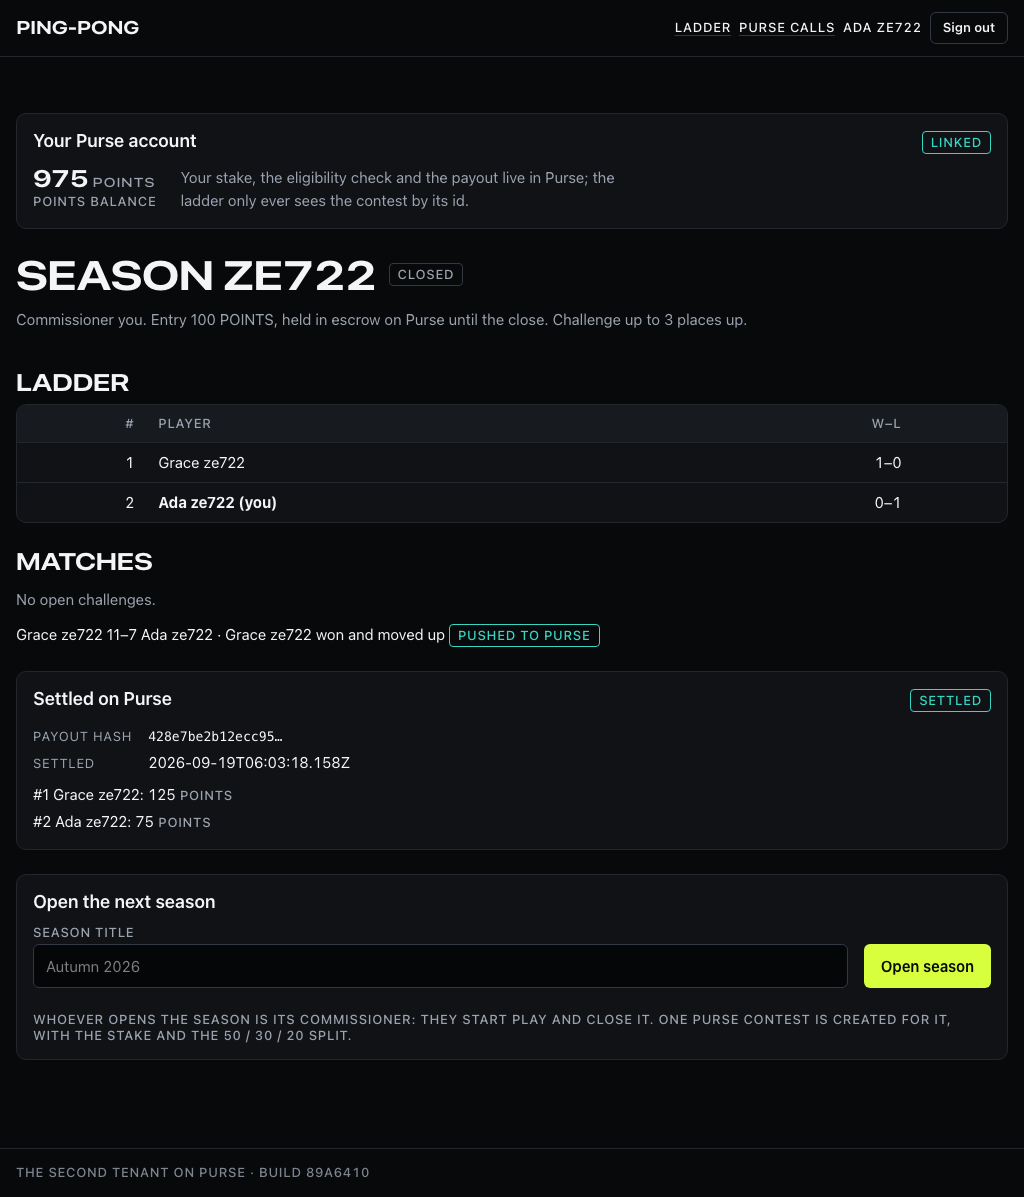
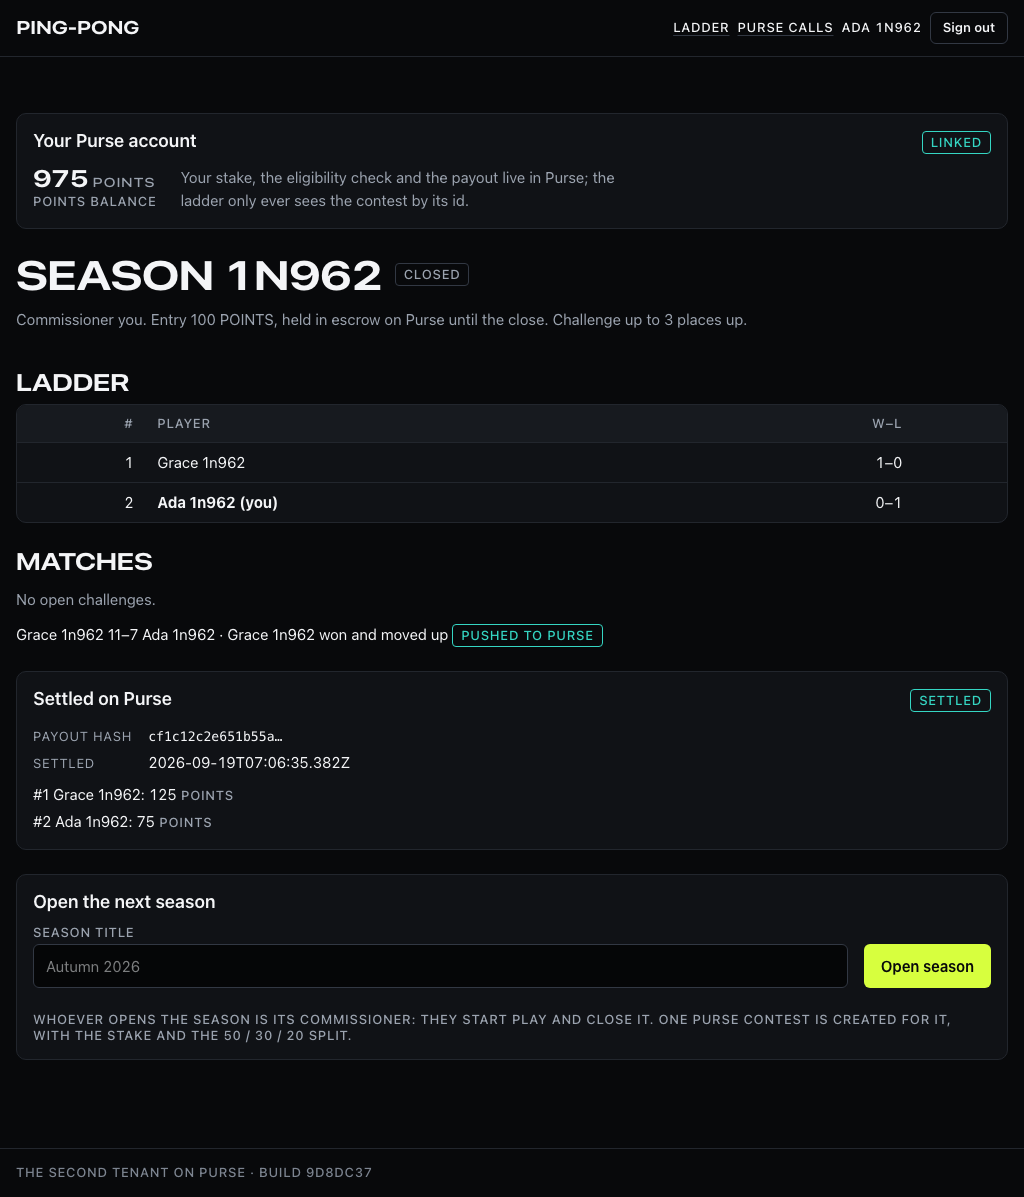
docs(second-tenant): record the pingpong deploy at 9d8dc37 and its live URL (#18)
The second tenant is live at https://pingpong-production-bc24.up.railway.app as the
`pingpong` Railway service, deployed 2026-09-19 at commit 9d8dc37 after the five existing
services were redeployed at the same commit (so the purse and demo-reset images carry the
second tenant's seed before the nightly reset). `docs/second-tenant.md` ("Deployed") has the
steps, the variables and what the smoke verified on the live origin; `docs/deploy.md` lists
the fourth service, its URL and includes it in the redeploy loop; `docs/decisions.md`
closes the deploy decision.

Two small operational notes from the deploy: the documented `db:setup` recipe now passes
the admin URL through `DATABASE_ADMIN_URL` (pnpm echoes a script's arguments, so a URL on
the command line reaches the terminal), and the smoke takes its screenshot after the
wallets are re-read so the balance on it is the settled one. The screenshot is from the
run against the live origin.

diff --git a/apps/pingpong/e2e/smoke.spec.ts b/apps/pingpong/e2e/smoke.spec.ts
@@ -124,12 +124,13 @@ test('two players, one confirmed result, the ladder reorders, the season closes 
   await expect(settlement.getByTestId('result-row')).toHaveCount(2);
   await expect(settlement.getByTestId('result-row').first()).toContainText('125');
   await expect(settlement.getByTestId('result-row').last()).toContainText('75');
-  await ada.evaluate(() => window.scrollTo(0, 0));
-  await ada.screenshot({ path: path.join(SCREENSHOT_DIR, 'pingpong-settled.png'), fullPage: true });
 
   // ---- The payouts landed: 1000 welcome, 100 staked, 125 back to the winner, 75 to the loser.
   expect(await pointsOf(grace)).toBe('1025');
   expect(await pointsOf(ada)).toBe('975');
+  // The screenshot after the re-read, so the balance on it is the settled one.
+  await ada.evaluate(() => window.scrollTo(0, 0));
+  await ada.screenshot({ path: path.join(SCREENSHOT_DIR, 'pingpong-settled.png'), fullPage: true });
 
   // ---- The audit holds the calls, and Purse's ledger still reconciles.
   await ada.goto('/audit');

diff --git a/docs/deploy.md b/docs/deploy.md
@@ -11,6 +11,7 @@ where this deploy departs from its defaults.
 | `purse` | `apps/purse/Dockerfile` | the Purse API, the contest engine, the ledger, the webhook dispatcher, and the embed app under `/embed` | `GET /health`: sha, migration state, active ruleset version, SDK version, last reconcile result; 503 while the last reconcile failed |
 | `purse-console` | `apps/purse-console/Dockerfile` | the operator console, talking to the API's `/console/*` server-to-server | `GET /health`: sha, and whether the API answers |
 | `sideout` | `apps/sideout/Dockerfile` | the Sideout web app | `GET /health`: sha, migration state, SDK version, and what Purse's `/health` says |
+| `pingpong` | `apps/pingpong/Dockerfile` | the second tenant, the office ping-pong ladder (`docs/second-tenant.md`) | `GET /health`: the same shape as Sideout's |
 
 Every image is multi-stage (build, a clean production install, runtime), runs as the
 unprivileged `node` user, carries a Docker `HEALTHCHECK` on its `/health`, and is built
@@ -94,6 +95,7 @@ phase 9):
 | Sideout | https://sideout-production-5898.up.railway.app |
 | Purse API and embed | https://purse-production-b87b.up.railway.app (`/health`, `/embed/`, `/responsible-play`, `/support`, `/v1/*`) |
 | Purse operator console | https://purse-console-production.up.railway.app (sign in as `admin@purse.local`; the seeded password is kept as the `purse-console` service's `PURSE_CONSOLE_ADMIN_PASSWORD` variable, read by no process, for the dashboard's eyes only; `pnpm --filter @purse/api db:seed -- --print-operator-password --rotate-operator-password` through the proxy sets a new one) |
+| Ping-pong (the second tenant) | https://pingpong-production-bc24.up.railway.app (sign in with any name and the office code, the `pingpong` service's `OFFICE_CODE` variable; `docs/second-tenant.md`) |
 
 Plus `Postgres` (Railway's `postgres-ssl` image, one 50 GB volume, the two logical databases
 above, reached by the services at `postgres.railway.internal:5432` and from a workstation
@@ -123,8 +125,9 @@ railway init --name sideout-purse --workspace <workspace-id> --json     # projec
 railway add --database postgres --json
 railway tcp-proxy create --port 5432 --service Postgres                 # a public port for db:setup and the seed
 railway variable list --service Postgres --json                          # PGUSER, PGPASSWORD, PGDATABASE, RAILWAY_PRIVATE_DOMAIN
-pnpm db:setup --admin-url 'postgresql://postgres:<pw>@<proxy host>:<proxy port>/railway?sslmode=require' \
-  --no-write-env --no-test-databases \
+# The admin URL through the environment, not the command line: pnpm echoes a script's arguments.
+DATABASE_ADMIN_URL='postgresql://postgres:<pw>@<proxy host>:<proxy port>/railway?sslmode=require' \
+  pnpm db:setup --no-write-env --no-test-databases \
   --purse-password ... --purse-migrator-password ... --sideout-password ...
 for s in purse purse-console sideout purse-reconcile demo-reset; do railway add --service $s --json; done
 railway domain --service purse --port 4000; railway domain --service purse-console --port 4200; railway domain --service sideout --port 3000
@@ -148,8 +151,8 @@ linked):
 
 ```sh
 SHA=$(git rev-parse HEAD)
-for s in purse purse-console sideout purse-reconcile demo-reset; do railway variable set "BUILD_SHA=$SHA" --service $s --skip-deploys; done
-for s in purse purse-console sideout purse-reconcile demo-reset; do railway up --service $s --detach; done
+for s in purse purse-console sideout purse-reconcile demo-reset pingpong; do railway variable set "BUILD_SHA=$SHA" --service $s --skip-deploys; done
+for s in purse purse-console sideout purse-reconcile demo-reset pingpong; do railway up --service $s --detach; done
 ```
 
 Then check each `/health` reports `sha` equal to the commit and `migrations.pending` 0
@@ -261,7 +264,12 @@ demo reset first). Last run against the deployment: both flows passed at the com
 
 The second tenant (`apps/pingpong`, stretch item 4) has its own image, entrypoint, health
 check and variables, following the pattern above; `docs/second-tenant.md` lists them and
-the `PURSE_PINGPONG_ORIGINS` variable the `purse` service needs for it.
+the `PURSE_PINGPONG_ORIGINS` variable the `purse` service needs for it. Deployed
+2026-09-19 at commit `9d8dc37` as the `pingpong` service
+(https://pingpong-production-bc24.up.railway.app), with the five existing services
+redeployed at the same commit first so the `purse` and `demo-reset` images carry the second
+tenant's seed; `docs/second-tenant.md` ("Deployed") has the steps and what was verified on
+the live origin. The redeploy loop above now includes it.
 
 ## Running it anywhere else
 

diff --git a/docs/second-tenant.md b/docs/second-tenant.md
@@ -88,19 +88,50 @@ The fourth service follows `docs/deploy.md`'s per-service pattern: `apps/pingpon
 `test/docker.test.ts` pins it), `docker-entrypoint.sh` migrates first and fails the deploy
 on an error, `GET /health` reports the sha, the migration state, the SDK version and what
 Purse's `/health` says. Variables: `NODE_ENV=production`, `PORT=3100`,
-`PINGPONG_DATABASE_URL` (`pnpm db:setup --admin-url ... --no-write-env --no-test-databases`
-provisions the `pingpong` database and role next to the others), `SESSION_SECRET`,
+`PINGPONG_DATABASE_URL` (`DATABASE_ADMIN_URL=... pnpm db:setup --no-write-env
+--no-test-databases --pingpong-password ...` provisions the `pingpong` database and role next
+to the others; the admin URL through the environment, because pnpm echoes a script's
+arguments), `SESSION_SECRET`,
 `OFFICE_CODE`, `TRUSTED_PROXY_HOPS=1`, `PURSE_API_URL`, `PINGPONG_PURSE_SECRET_KEY`, the
 three `NEXT_PUBLIC_PURSE_*`, `BUILD_SHA`, `RAILWAY_DOCKERFILE_PATH=apps/pingpong/Dockerfile`;
 on the `purse` service, `PURSE_PINGPONG_ORIGINS=https://<pingpong domain>` so the seed and
 the nightly reset allowlist it. No secret is written anywhere but the host's variables.
 
-**Live URL:** not deployed yet (the deploy is a firstmate decision; see the PR).
+### Deployed
 
-![The ladder after a settled season](screenshots/pingpong-settled.png)
+**Live URL:** https://pingpong-production-bc24.up.railway.app, the `pingpong` service of the
+Railway project in `docs/deploy.md`, deployed 2026-09-19 at commit `9d8dc37`. Sign in with
+any name and the office code, which is the service's `OFFICE_CODE` variable (a shared
+secret for the office, kept where the other secrets are). How it went up, in order:
 
-*The screenshot is from the Playwright smoke against a local Purse: the season closed, the
-challenger first, the 50/30 split of the 200-point escrow in both players' wallets.*
+1. The five existing services were redeployed at the same commit first (`docs/deploy.md`,
+   "To redeploy"), so the `purse` and `demo-reset` images carry `seedSecondTenant` before
+   the nightly reset runs: a reset from the previous image would have deleted the second
+   tenant's platform accounts without recreating them.
+2. `railway add --service pingpong` with `NODE_ENV`, `PORT` and `RAILWAY_DOCKERFILE_PATH`;
+   `railway domain --service pingpong --port 3100`; then `PURSE_PINGPONG_ORIGINS=<that
+   domain>` on `purse`, referenced from `demo-reset` (`${{purse.PURSE_PINGPONG_ORIGINS}}`).
+3. The `pingpong` database and role through the Postgres proxy (`db:setup`, above), the
+   Purse seed through the same proxy with both origins variables set (`--print-keys` printed
+   the tenant's pair the one time it was created), and the variables listed above on the
+   service, secrets through `railway variable set <NAME> --stdin`. The health check path
+   (`/health`, 180 s) and restart policy (`ON_FAILURE`, 10) were set through
+   `serviceInstanceUpdate`, the same as the other web services.
+4. `railway up --service pingpong --detach`; `/health` answered 200 with the sha,
+   `migrations.pending: 0` and `purse.reachable: true`.
+
+Verified on the live origin with the smoke (`BASE_URL=... E2E_PURSE_URL=... OFFICE_CODE=...
+pnpm --filter @pingpong/web e2e`): two players signed in and linked, entered the season in
+Purse's frame on the deployed Purse, the commissioner started play, the challenger won 11–7,
+both confirmed, the ladder reordered, the result was pushed, the frozen preview showed
+125/75 of the 200-point escrow, the close settled and the wallets read 1025 and 975; a
+`GET /internal/reconcile` on the deployed Purse straight after found every invariant holding
+with the second tenant's settlements in the ledger.
+
+![The ladder after a settled season on the deployment](screenshots/pingpong-settled.png)
+
+*The screenshot is from that run against the live origin: the season closed, the challenger
+first, the 50/30 split of the 200-point escrow paid out, the commissioner's wallet re-read.*
 
 ## What it does not do
 

diff --git a/docs/decisions.md b/docs/decisions.md
@@ -1622,10 +1622,12 @@ consumer proved, and what it exposed.
   authentication for a throwaway office product and the wrong amount for anything else; the
   production configuration requires a real code and a real session secret, and nothing about
   it is reused by Sideout.
-- **Deploying the fourth service** is documented (`docs/second-tenant.md`, following
-  `docs/deploy.md`'s pattern) and left to the operator: the brief both asked for the deploy
-  and forbade a new service, so the PR ships deployable and the deploy itself is a decision
-  above the implementation.
+- **Deploying the fourth service** was raised as a decision rather than guessed (the brief
+  both asked for the deploy and forbade a new service) and decided as: merge first, then
+  deploy from `main`, redeploying the existing services at the same commit before adding
+  the new one, so the reset job knows the second tenant before it next runs. It is live
+  (`docs/second-tenant.md`, "Deployed"); a service's deploy order relative to the platform's
+  images turned out to be the one thing a fourth service needed that the pattern did not say.
 
 ## Stretch: SSE live scoring decisions
 
